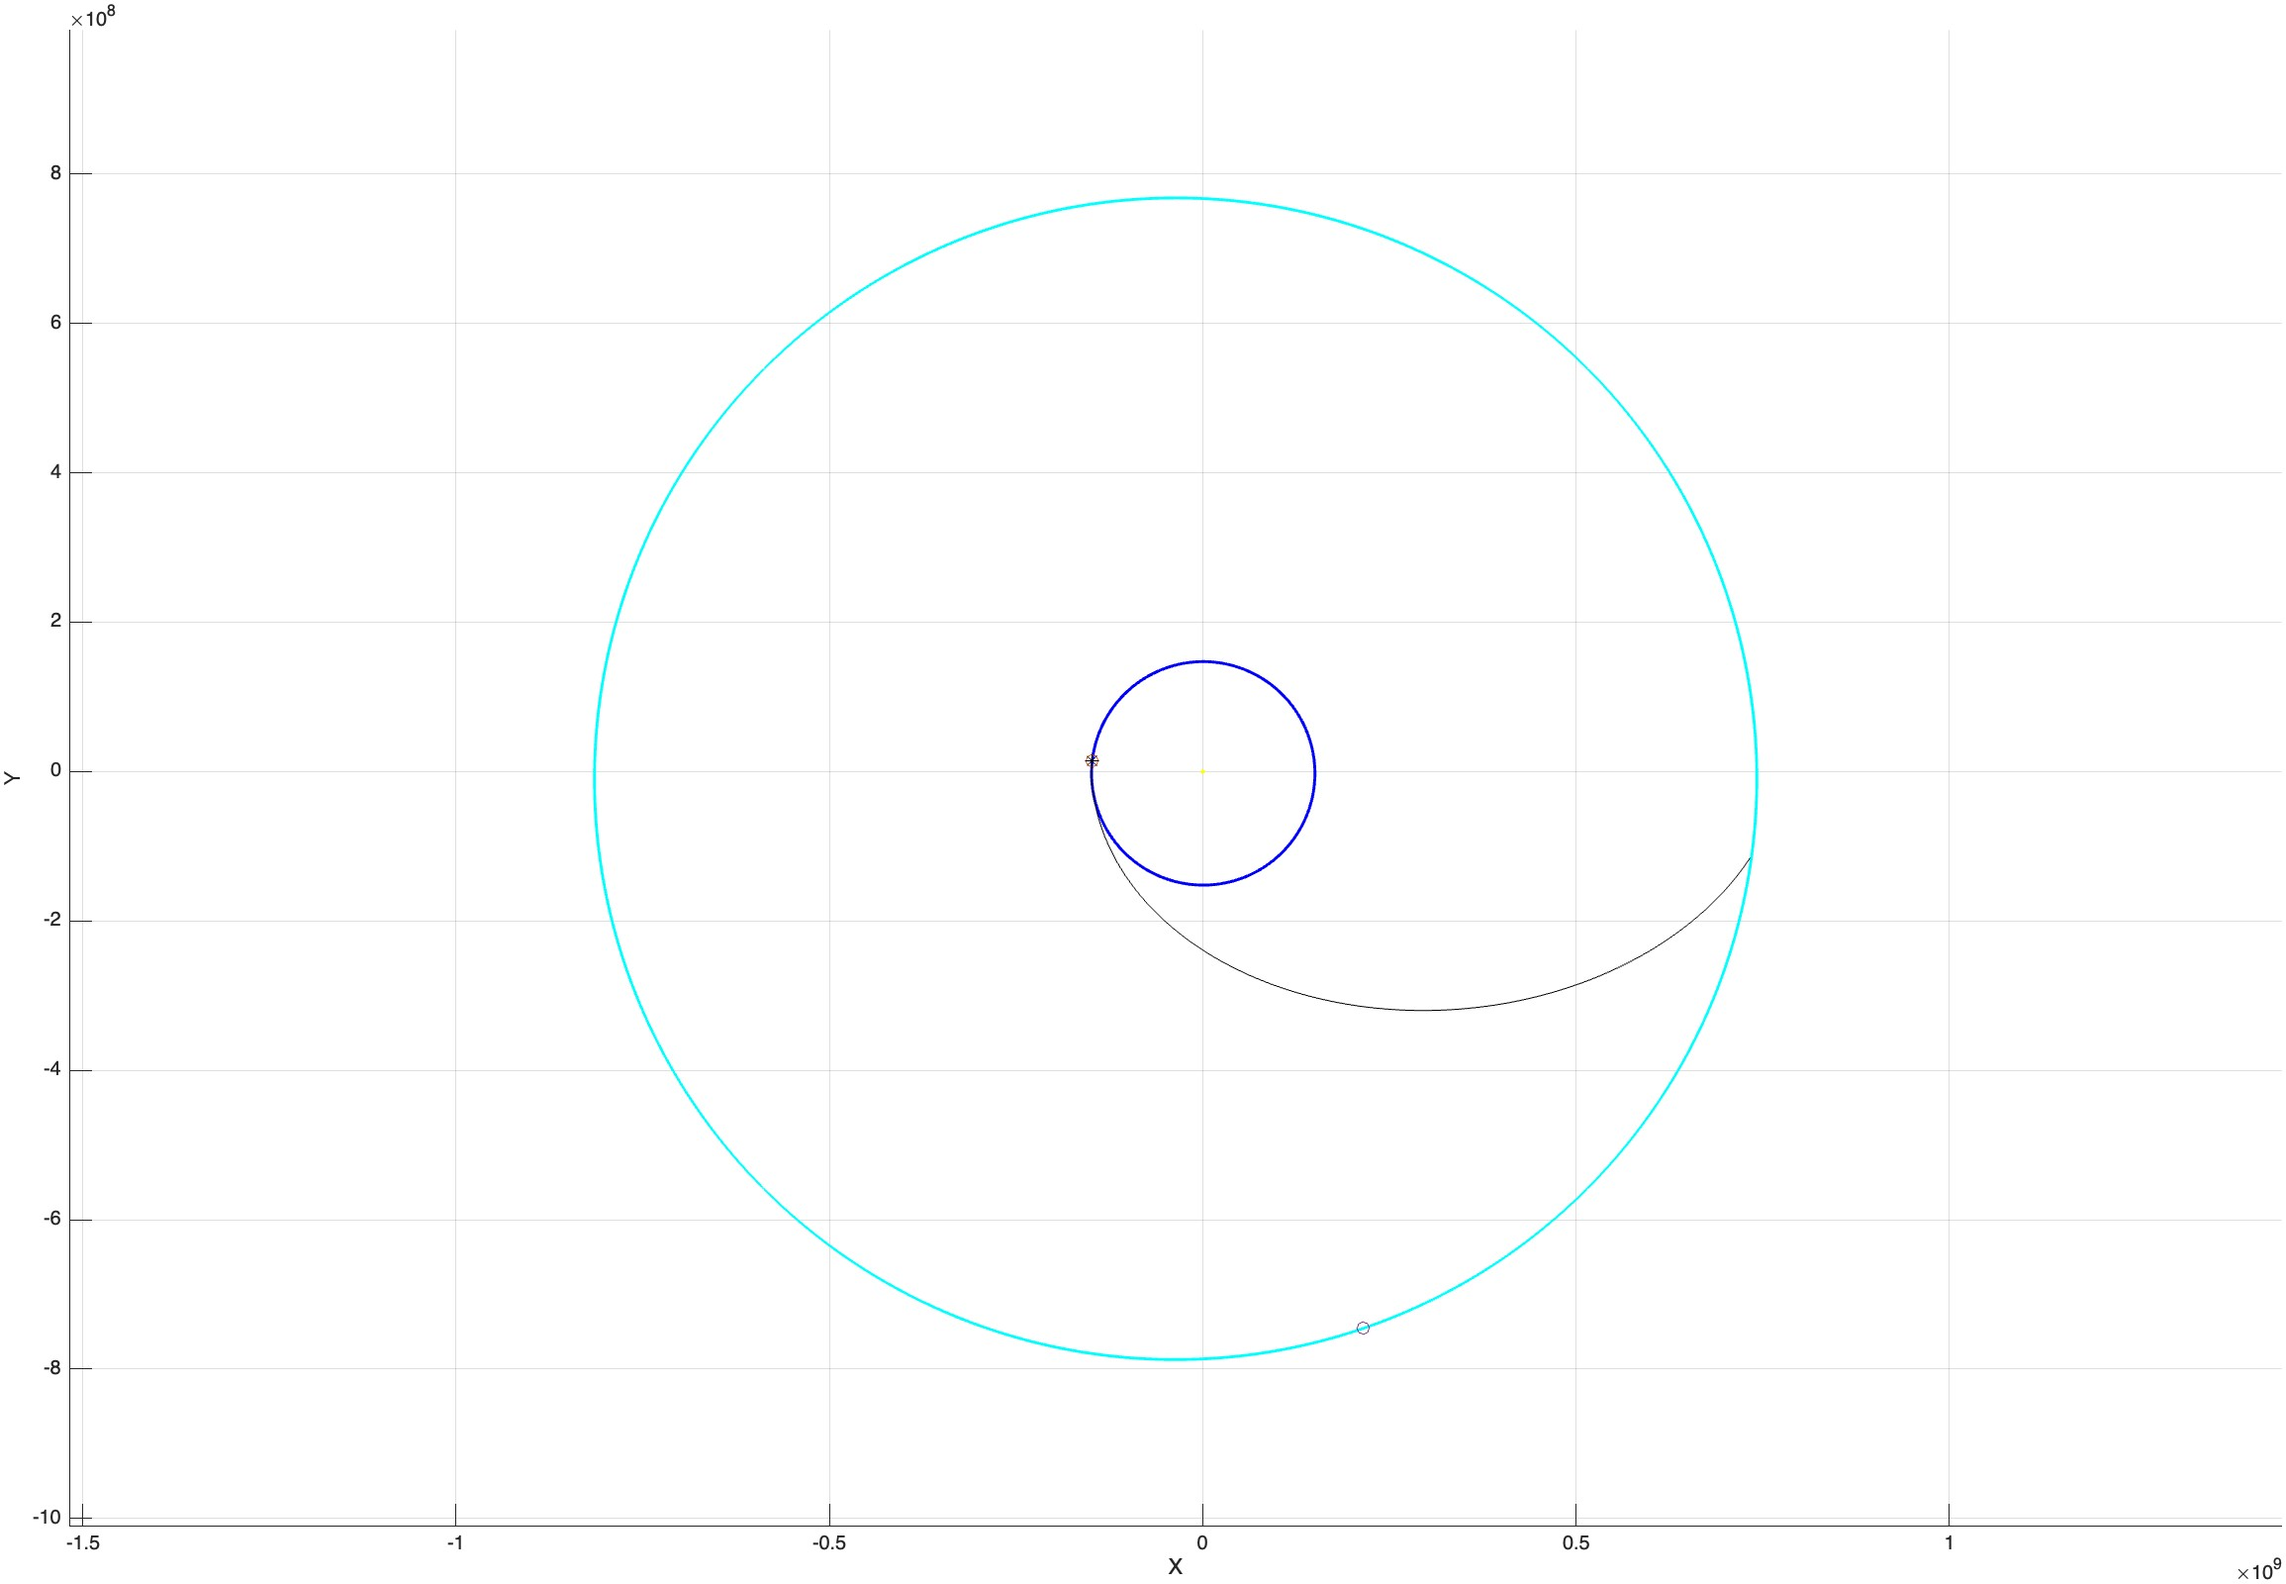
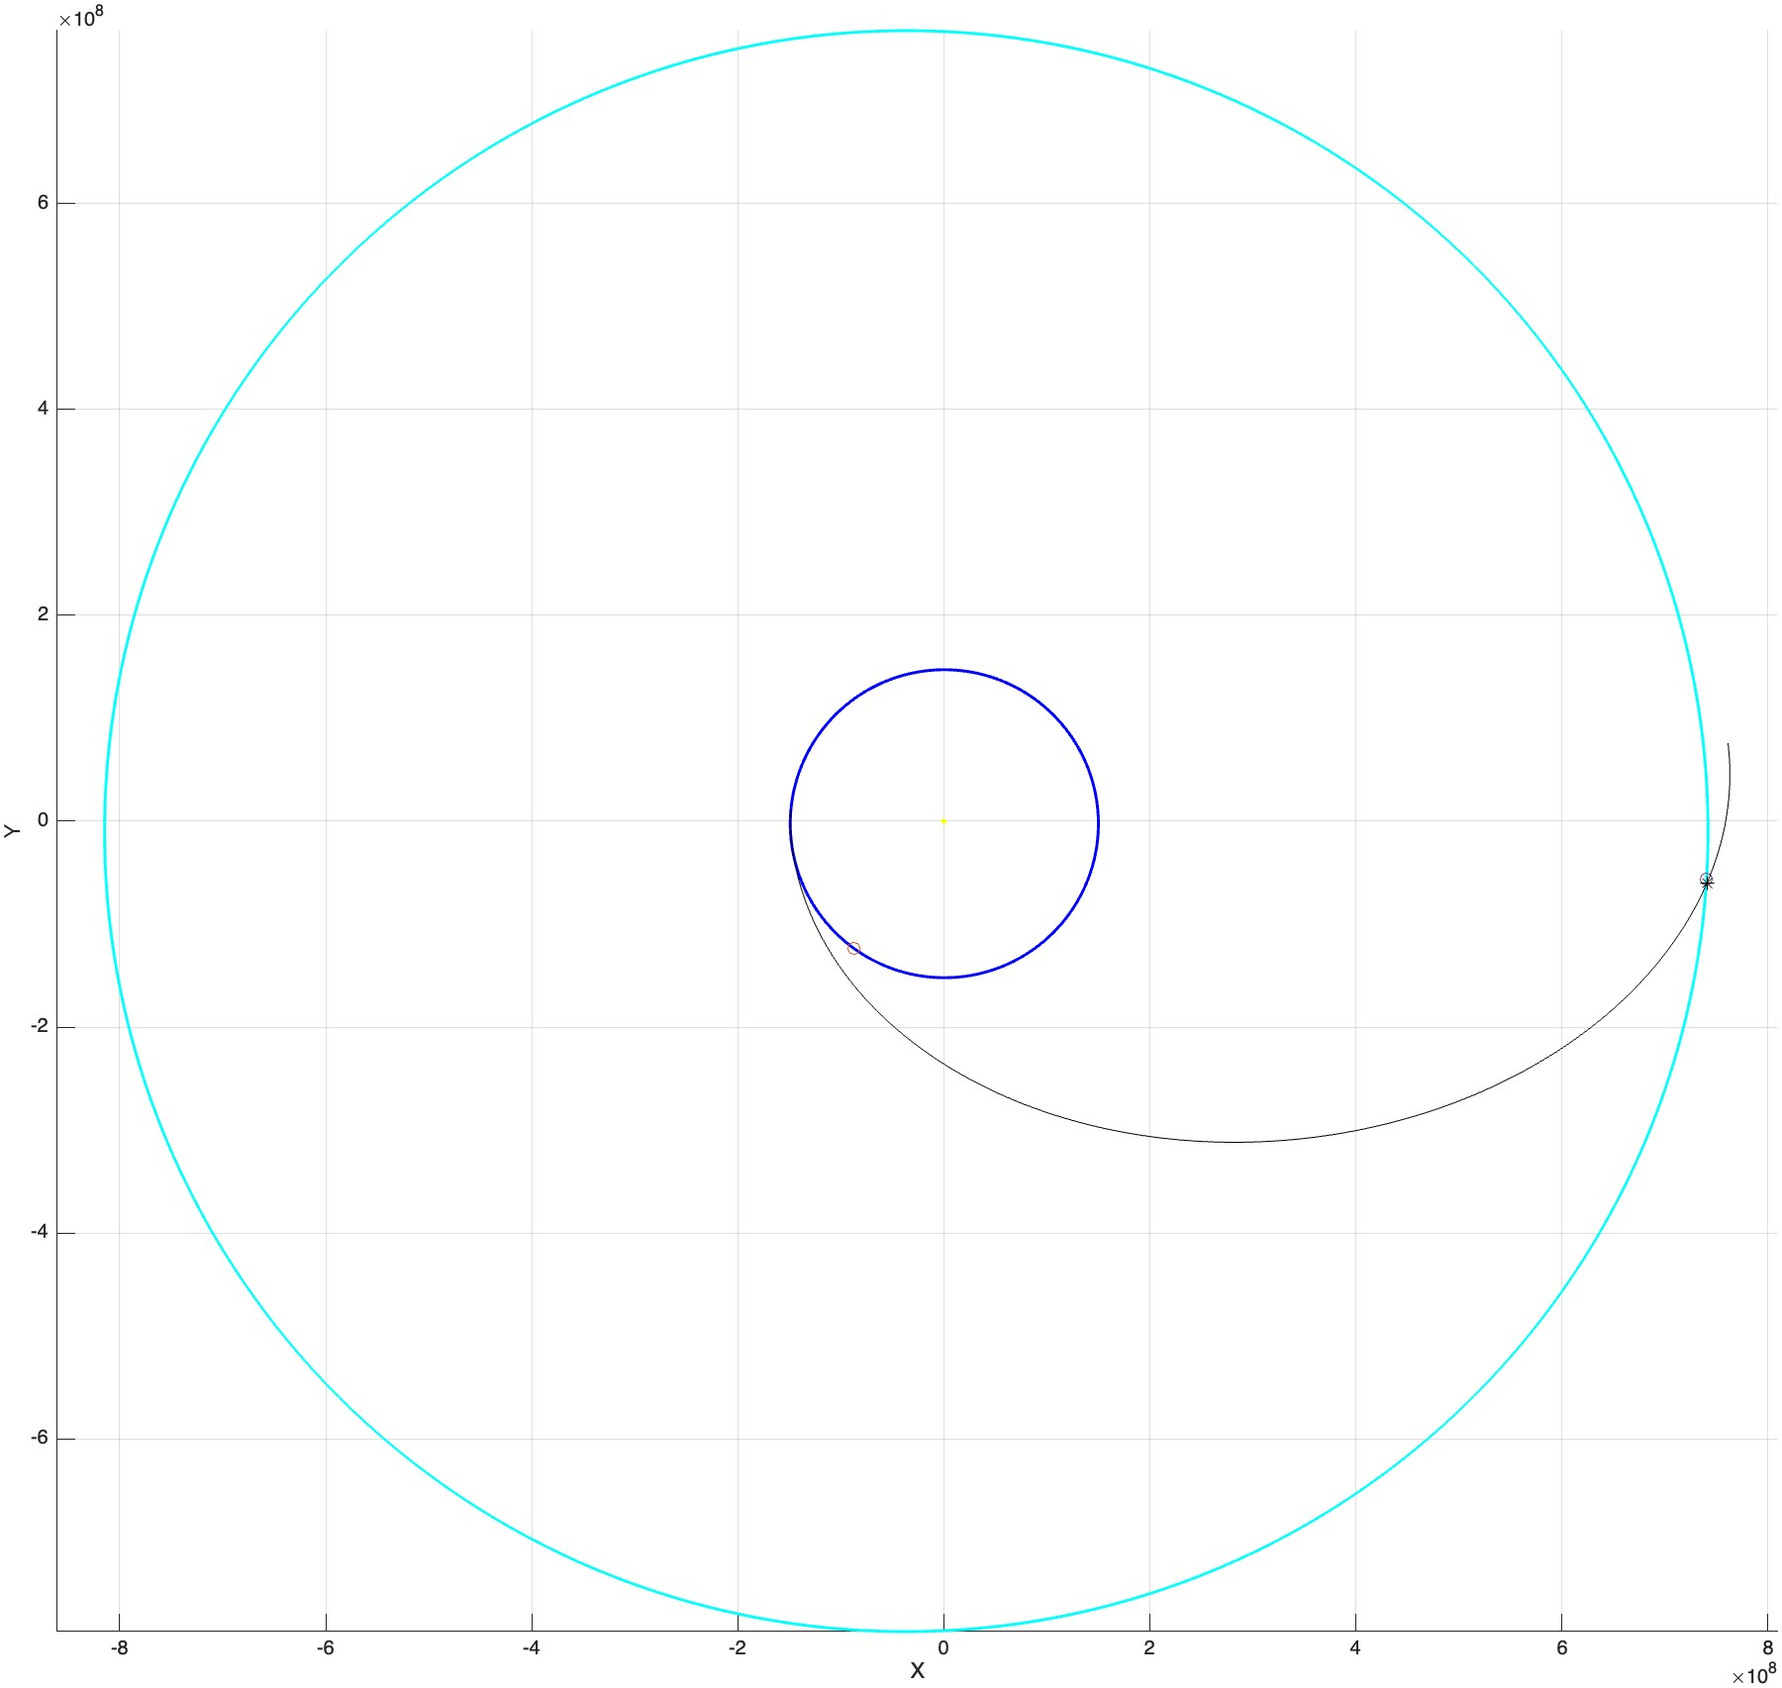
changed for a new and accurate hohmann

diff --git a/JunoFlybyJupiter.m b/JunoFlybyJupiter.m
@@ -1,0 +1,66 @@
+function [rsc,vsc,finalDate] = hohmannJupiter(initialDate)
+
+% Simulates a Hohmann transfer to Venus
+% Set initial date in app to 12/20/2024
+%According to the theorertical calculations, launchDay will be 12.
+%% Initialize
+
+    mu=1.327e11;          %Gravitational parameter for Sun
+    maxDays=300;         % Number of days to follow the spaceraft = t12
+                         % for Earth-Venus transfer
+    fbday1 = 105;
+
+    rsc=zeros(maxDays,3); % Position vector array for spacecraft
+    vsc=zeros(maxDays,3); % Velocity vector array for spacecraft
+
+            
+    finalDate=initialDate+days(maxDays); %date when sc stops appearing in simulation
+    launchDay=15; % # of days to launch from Start Date
+
+    tinit=datetime(initialDate); % initial time as datetime variable type
+%% Stay on Earth until day of launch
+
+    for dayCount=1:launchDay
+    t=tinit+days(dayCount-1); % index dayCount=1 corresponds to initial time.
+    [y,m,d]=ymd(t);           % year month day format of current time
+
+    % Use planet_elements_and_sv_coplanar to find current position and
+    % velocity
+
+    [~, r, v, ~] =planet_elements_and_sv_coplanar ...
+    (1.327e11, 3, y, m, d, 0, 0, 0);
+
+    % Update the position and velocity vectors
+    rsc(dayCount,:)=[r(1),r(2),0];
+    vsc(dayCount,:)=[v(1), v(2),0];
+    end
+ 
+%% Launch Maneuver
+    t=tinit+days(launchDay);
+    [y,m,d]=ymd(t);
+    [coe, R, V, jd] =planet_elements_and_sv_coplanar ...
+    (1.327e11, 3, y, m, d, 0, 0, 0);
+
+    Vsc = V + 12*V/norm(V); %Delta v is -4km/s
+   
+
+    % Calculate the orbital elements for spacecraft
+   [h,a,e,w,E0]=scElements(R,Vsc);
+
+    % propagate the new orbit for spacecraft 
+   [rsc,vsc]=propagate(h,a,e,w,E0,launchDay+1,fbday1,rsc,vsc);
+
+
+  % Load flyby data from app
+  
+   load JupiterFB1.mat
+
+   % Calculate the velocity after the flyby
+   [Vsc1,DeltaMin]=flyby(Vp1,Vsc1,1.35e4,3.2e5,6.1e3,0);
+   DeltaMin %Can output Deltamin to keep the aiming radius above this value
+
+   %Calculate the orbital elements for the spacecraft after the flyby
+   [h,a,e,w,E0]=scElements(R1,Vsc1);
+
+   %propagate orbit to end
+   [rsc,vsc]=propagate(h,a,e,w,E0,fbday1+1,maxDays,rsc,vsc);

diff --git a/flyby.m b/flyby.m
@@ -1,4 +1,4 @@
-function [Vout,DeltaMin]=flyby(Vp,Vsc,Delta,mu,rp,ccw)
+'/function [Vout,DeltaMin]=flyby(Vp,Vsc,Delta,mu,rp,ccw)
 %function [Vout,DeltaMin]=flyby(Vp,Vsc,Delta,mu,rp,ccw)
 %Calculate the heliocentric spacecraft velocity after the flyby 
 %for given values of:
